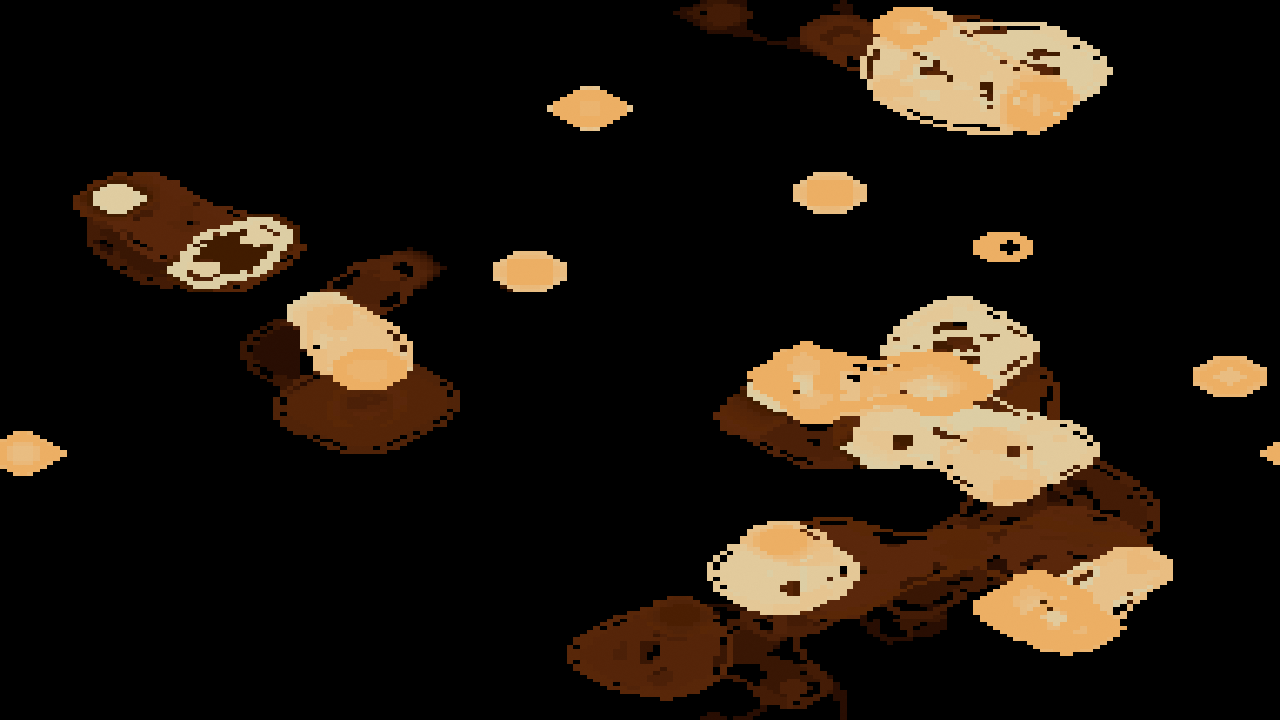
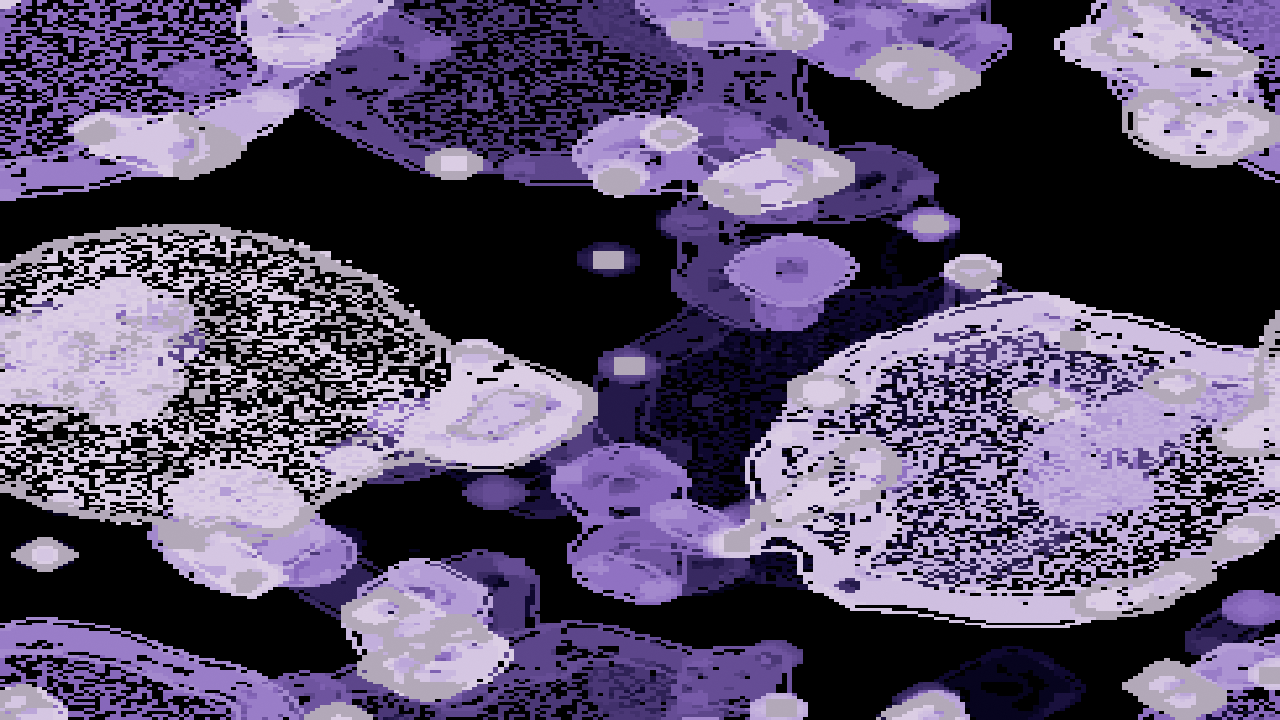
docs(guide): picture the cellular families with the shipped presets
The guide's three cellular pictures now render Ember Life, Tide Bugs and
Spiral Bloom instead of teaching presets; each caption names the shipped
file and still links the teaching one. The Larger than Life paragraph no
longer claims its bugs keep travelling - left alone they settle, which is
why Tide Bugs reseeds (backlog 0211).

Also fixes Tide Bugs' header, which said the reseed floor was every 14 s
while the binding reseeds every 5 s.

diff --git a/docs/preset-guide.md b/docs/preset-guide.md
@@ -77,8 +77,7 @@ the params then animate it.
 One image each, captured under the same stimulus at the same moment in the clip, so they are
 comparable. Each is a real preset, and the file name is under the picture: a `presets/` name is a
 shipped preset, while a `docs/examples/` name is a teaching preset, written to show one family
-plainly and never shipped. The families of `parametric_curve`, `analytic_field` and `cellular` are
-pictured that way, one teaching preset each, so each picture shows its family and nothing else. The
+plainly and never shipped. A family no shipped preset draws yet is pictured through one of those. The
 **parameter reference** — every parameter of every
 system, with its default, the range that reads and what it does — is
 [`../presets/README.md`](../presets/README.md).
@@ -343,11 +342,12 @@ orbit-trap filigree. Which parameter belongs to which family, and what the quali
 
 ### `cellular`
 
-![Conway's Life on a black ground: pale blue clouds of recently active cells with darker, fading
-edges, scattered with small still lifes and blinkers drawn as rings and crosses of single
-cells](images/gallery/cellular.png)
+![Conway's Life as a field of coals: broad clouds of white-gold and amber cells cooling through
+orange to deep red at their edges, split by black channels scattered with small still lifes and
+blinkers drawn as single-cell rings and crosses](images/gallery/cellular.png)
 
-*`family = "life_like"` — [`docs/examples/cellular/life_like.toml`](examples/cellular/life_like.toml)*
+*`family = "life_like"` — `presets/cellular_ember_life.toml`; the teaching preset is
+[`docs/examples/cellular/life_like.toml`](examples/cellular/life_like.toml)*
 
 A **cellular automaton**: a square grid of cells, every generation each cell deciding its next state
 from its neighbours'. The grid remembers — every cell carries how long ago it last changed — so a
@@ -361,19 +361,23 @@ bitmasks over the neighbour counts, which the [`[cellular]` table](presets.md#th
 spells out. Left to itself Life settles into still lifes and blinkers, so reach for `reseed` — a
 disc of fresh cells on every rise, a beat or a latch — to keep it fed.
 
-![Blobs and short trails in cream and amber on black, each travelling across the frame with a
-dark brown wake behind it, a few small round cells drifting between them](images/cellular/larger_than_life.png)
+![Large pale-violet blobs with speckled interiors and bright rims on black, chains of smaller
+rounded cells in lilac and indigo linking them across the frame](images/cellular/larger_than_life.png)
 
-*`family = "larger_than_life"` — [`docs/examples/cellular/larger_than_life.toml`](examples/cellular/larger_than_life.toml)*
+*`family = "larger_than_life"` — `presets/cellular_tide_bugs.toml`; the teaching preset is
+[`docs/examples/cellular/larger_than_life.toml`](examples/cellular/larger_than_life.toml)*
 
 **Larger than Life** reads a wide square of neighbours rather than eight, with birth and survival as
-ranges of how full it is. Above radius 1 its rules grow blobs and bugs that keep travelling where
-Life would settle — and the ember wake here is the path each one took.
+ranges of how full it is. Above radius 1 its rules grow blobs and bugs that crawl, merge and split.
+Left alone they settle too, into still rings within a minute, so the preset pictured drops a fresh
+disc of soup on every hard onset and at least every five seconds; the speckled blobs above are those
+discs, organising.
 
-![Interlocking spirals of three flat colours — purple, turquoise and sea green — covering the
+![Interlocking spirals of three flat colours — coral, cornflower blue and sage green — covering the
 whole frame, their arms curling round dozens of small cores](images/cellular/cyclic.png)
 
-*`family = "cyclic"` — [`docs/examples/cellular/cyclic.toml`](examples/cellular/cyclic.toml)*
+*`family = "cyclic"` — `presets/cellular_spiral_bloom.toml`; the teaching preset is
+[`docs/examples/cellular/cyclic.toml`](examples/cellular/cyclic.toml)*
 
 The **cyclic** automaton: every cell is one of `states` colours and advances to the next when enough
 neighbours already have. From noise it organizes itself, within a few hundred generations, into
